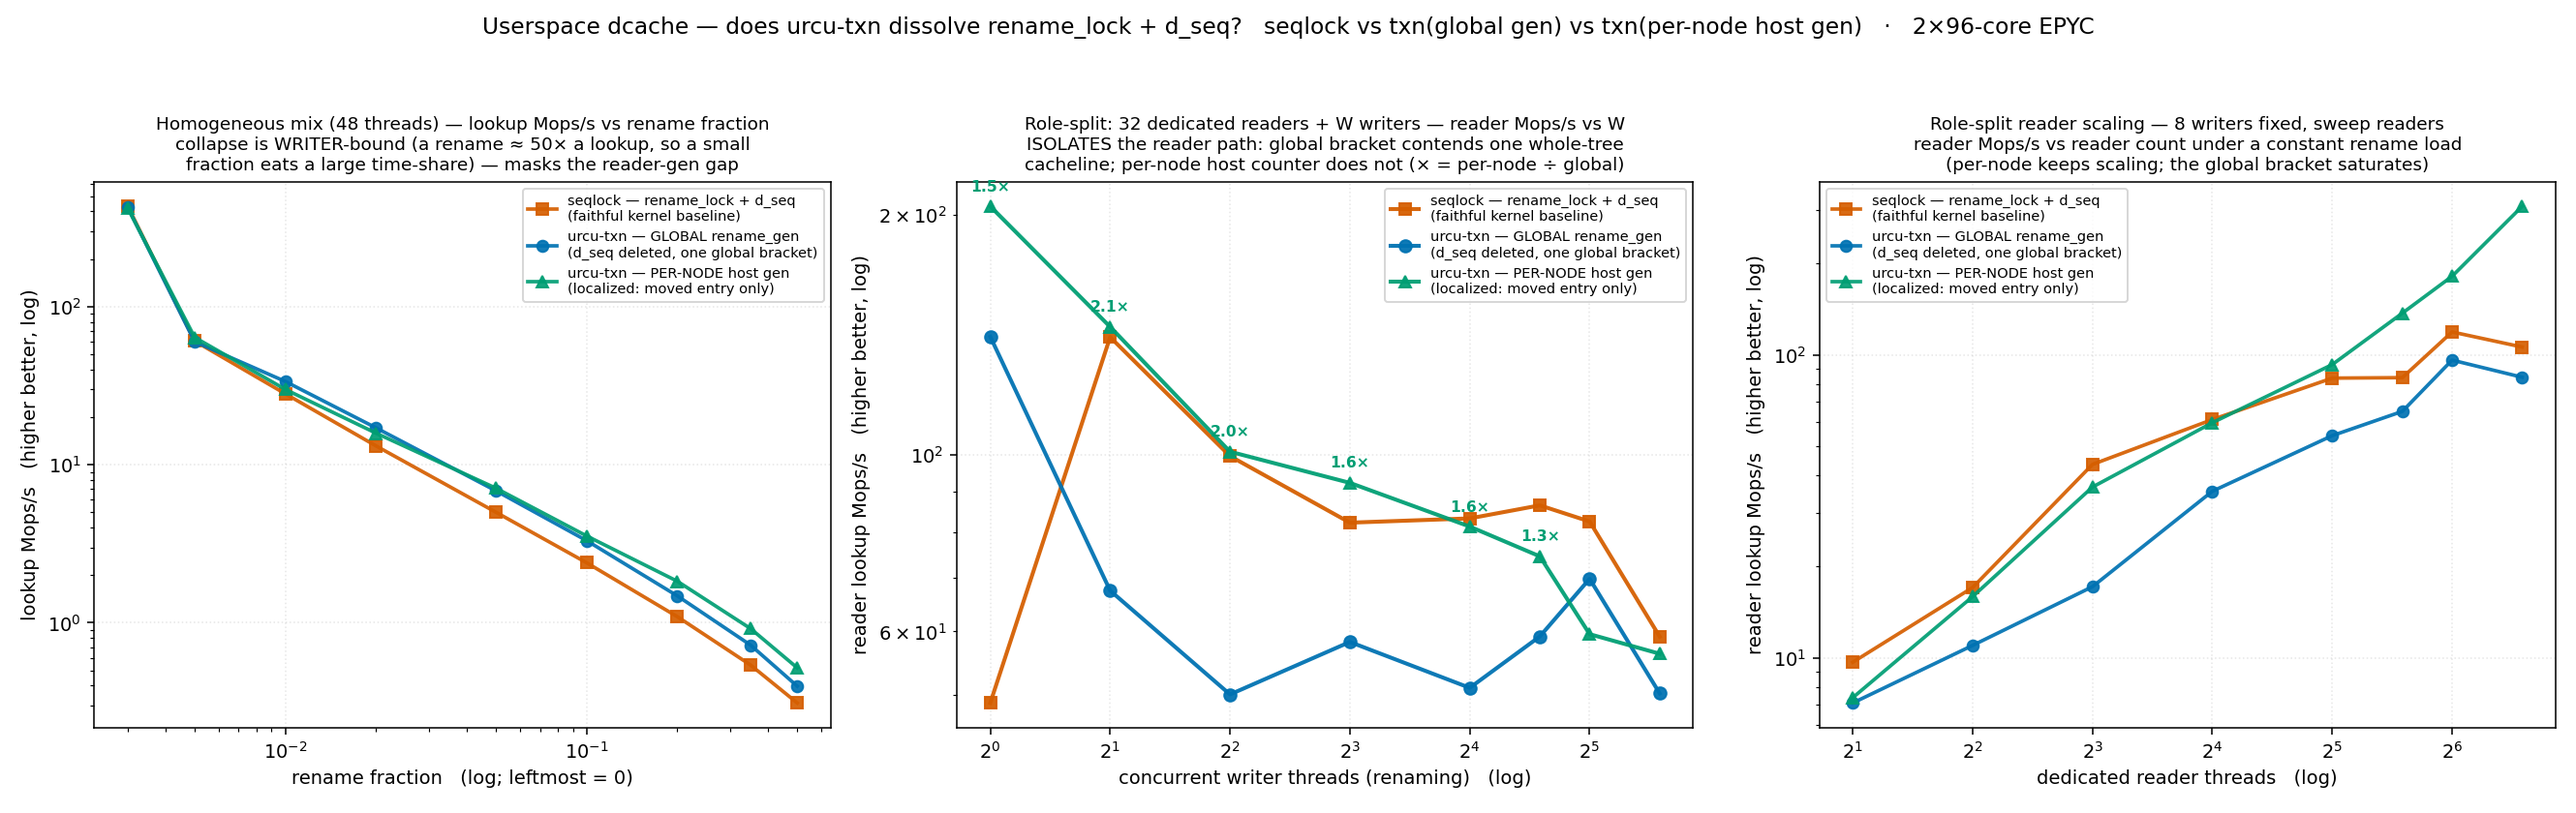
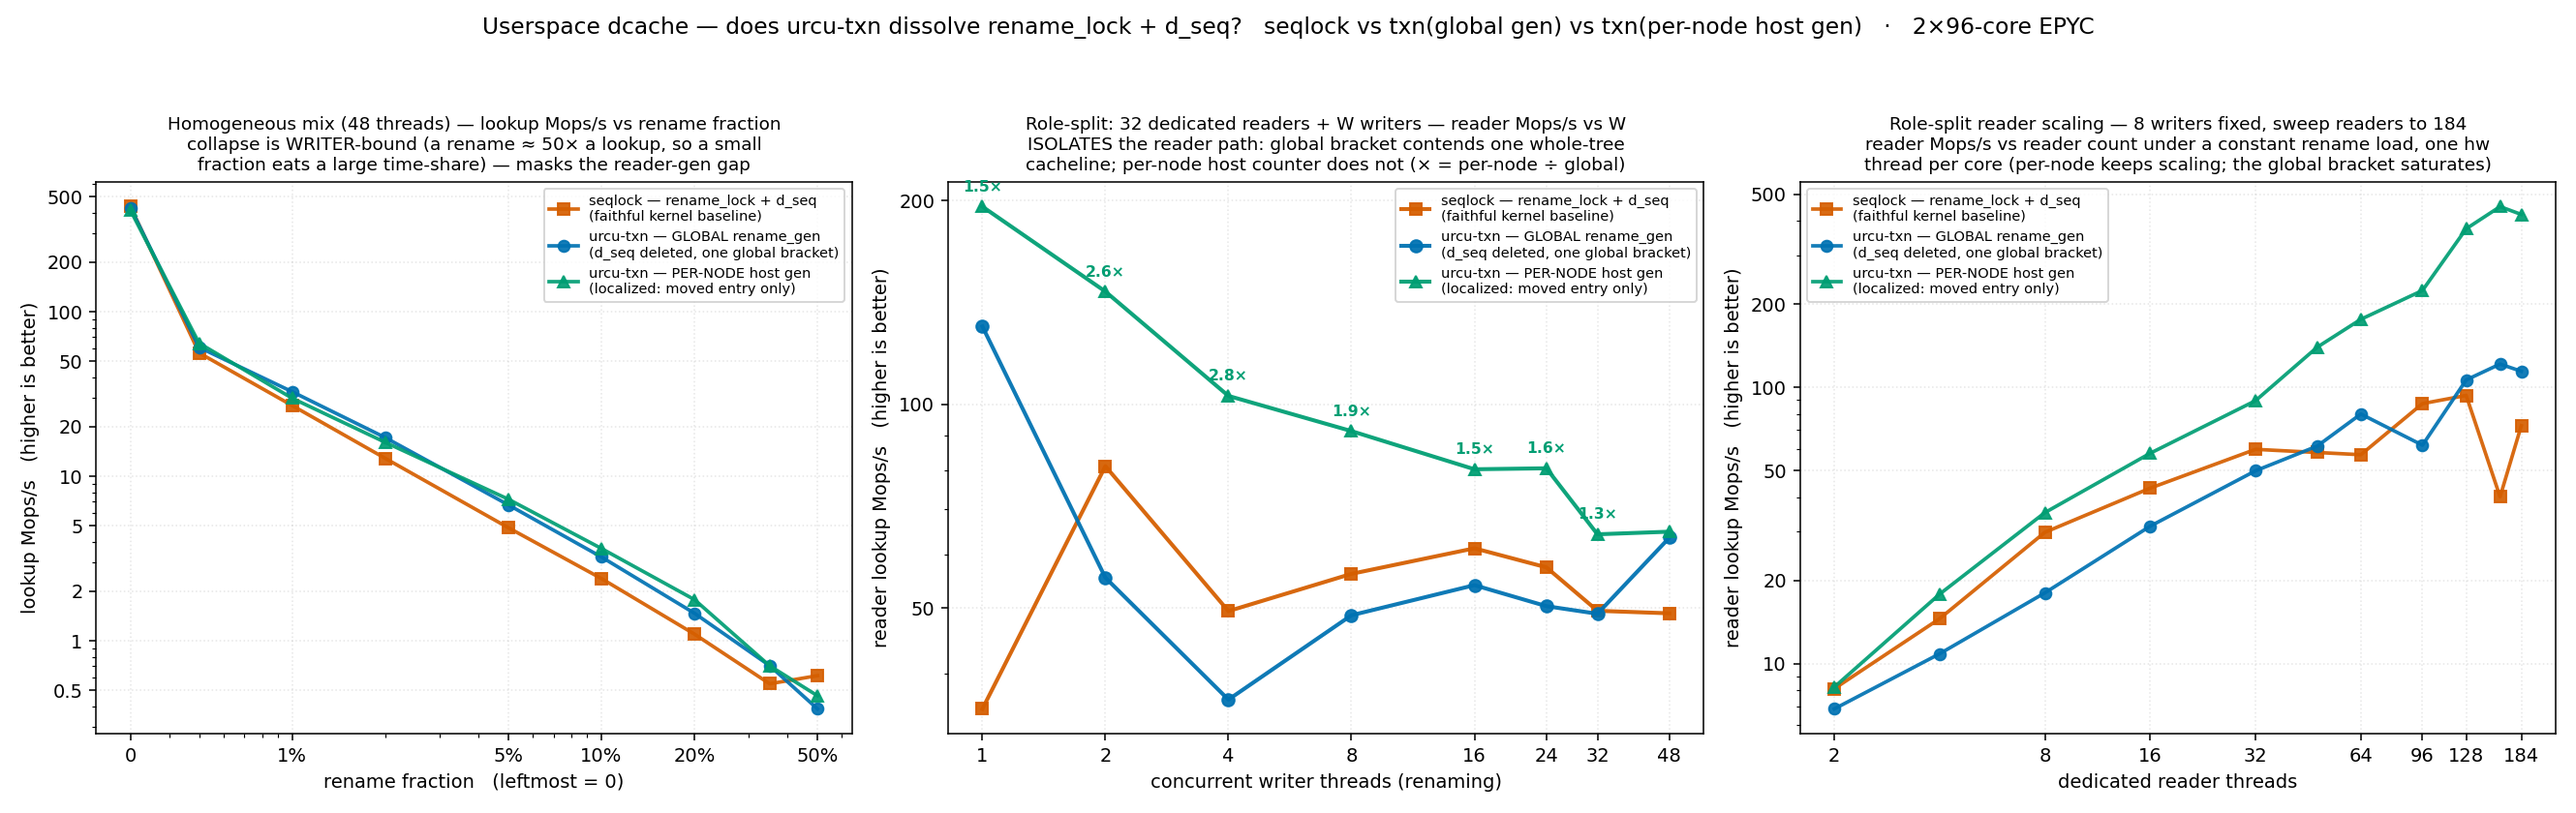
experiments/dcache: scale the S3 reader sweep to all 192 cores (one HW thread/core)
The role-split reader-scaling panel previously stopped at 96 readers, well
short of the machine.  Extend it to fill every physical core and pin one
hardware thread per core so the SMT siblings do not muddy the scaling curve.

bench_dcache: add --cpulist c0,c1,... — an explicit thread->CPU map that
overrides id*cpustride (and errors out if nthreads exceeds the list, which
would double two threads onto one core).

run_dcache.sh: derive that list from hwloc — `hwloc-calc core:all.pu:0` gives
the first PU of every core (OS-indexed 0..191 here; the SMT siblings 192..383
stay idle), so the pinning is correct on any PU numbering, not an assumed
enumeration.  Sweep split_scale readers up to NCORE-WFIX = 184 (184 readers +
8 writers = 192 cores).

Result (best-of-5, 420 runs, 0 conservation failures): per-node reader
throughput keeps scaling to ~451 Mops/s at 160 readers (422 at 184, where the
writers share the last socket), while the global rename_gen bracket saturates
~110-120 and seqlock never scales cleanly (noisy 40-93, reader-retry storms).
At the full-machine point per-node is 3.7x global and 5.8x seqlock.

Regenerate figures/dcache_s3.png (panel-3 x-ticks/title extended to 184) and
update the S3 write-ups in README.md and rename-shell-transition.md.

diff --git a/scripts/plot_dcache.py b/scripts/plot_dcache.py
@@ -17,6 +17,36 @@ from collections import defaultdict
 import matplotlib
 matplotlib.use("Agg")
 import matplotlib.pyplot as plt
+from matplotlib.ticker import (FuncFormatter, FixedLocator, FixedFormatter,
+                               LogLocator, NullFormatter)
+
+# plain decimal label: 0.2, 0.5, 1, 10, 100, 200 -- never 10^n, never "0" for 0.5
+_num = FuncFormatter(lambda v, pos: f"{v:g}")
+
+
+def plain_y(ax):
+    """log-SPACED y (the data spans decades) but PLAIN-NUMBER labels: 1, 10, 100
+    (with 2/5 subdivisions), never 10^n."""
+    ax.set_yscale("log")
+    ax.yaxis.set_major_locator(LogLocator(base=10, subs=(1, 2, 5)))
+    ax.yaxis.set_major_formatter(_num)
+    ax.yaxis.set_minor_formatter(NullFormatter())
+
+
+def plain_thread_x(ax, ticks):
+    """log2-spaced thread-count x with plain integer labels at the sampled points."""
+    ax.set_xscale("log", base=2)
+    ax.xaxis.set_major_locator(FixedLocator(ticks))
+    ax.xaxis.set_major_formatter(FixedFormatter([str(t) for t in ticks]))
+    ax.xaxis.set_minor_formatter(NullFormatter())
+
+
+def percent_x(ax, fracs, labels):
+    """log-spaced rename-fraction x, labelled as percentages (0, 1%, 5%, ...)."""
+    ax.set_xscale("log")
+    ax.xaxis.set_major_locator(FixedLocator(fracs))
+    ax.xaxis.set_major_formatter(FixedFormatter(labels))
+    ax.xaxis.set_minor_formatter(NullFormatter())
 
 HERE = os.path.dirname(os.path.abspath(__file__))
 CSV = os.path.join(HERE, "dcache_sweep.csv")
@@ -55,13 +85,15 @@ for e in ENGINES:
     ax1.plot(xs, ys, color=COLOR[e], marker=MARKER[e], lw=1.9, ms=6,
              label=LABEL[e], alpha=0.92)
 if ax1.has_data():
-    ax1.set_xscale("log"); ax1.set_yscale("log")
+    percent_x(ax1, [0.003, 0.01, 0.05, 0.1, 0.2, 0.5],
+              ["0", "1%", "5%", "10%", "20%", "50%"])
+    plain_y(ax1)
 ax1.set_title("Homogeneous mix (48 threads) — lookup Mops/s vs rename fraction\n"
               "collapse is WRITER-bound (a rename ≈ 50× a lookup, so a small\n"
               "fraction eats a large time-share) — masks the reader-gen gap",
               fontsize=9.5)
-ax1.set_xlabel("rename fraction   (log; leftmost = 0)")
-ax1.set_ylabel("lookup Mops/s   (higher better, log)")
+ax1.set_xlabel("rename fraction   (leftmost = 0)")
+ax1.set_ylabel("lookup Mops/s   (higher is better)")
 
 # ---- Panel 2: ROLE-SPLIT -- reader throughput vs writer load (THE headline) --
 base = {}
@@ -82,13 +114,14 @@ for w in sorted(base["txn-pernode"]):
                          ha="center", fontsize=8, color=COLOR["txn-pernode"],
                          fontweight="bold")
 if ax2.has_data():
-    ax2.set_xscale("log", base=2); ax2.set_yscale("log")
+    plain_thread_x(ax2, [1, 2, 4, 8, 16, 24, 32, 48])
+    plain_y(ax2)
 ax2.set_title("Role-split: 32 dedicated readers + W writers — reader Mops/s vs W\n"
               "ISOLATES the reader path: global bracket contends one whole-tree\n"
               "cacheline; per-node host counter does not (× = per-node ÷ global)",
               fontsize=9.5)
-ax2.set_xlabel("concurrent writer threads (renaming)   (log)")
-ax2.set_ylabel("reader lookup Mops/s   (higher better, log)")
+ax2.set_xlabel("concurrent writer threads (renaming)")
+ax2.set_ylabel("reader lookup Mops/s   (higher is better)")
 
 # ---- Panel 3: ROLE-SPLIT reader scaling at fixed writer load ----------------
 for e in ENGINES:
@@ -98,13 +131,14 @@ for e in ENGINES:
     ax3.plot(xs, ys, color=COLOR[e], marker=MARKER[e], lw=1.9, ms=6,
              label=LABEL[e], alpha=0.92)
 if ax3.has_data():
-    ax3.set_xscale("log", base=2); ax3.set_yscale("log")
-ax3.set_title("Role-split reader scaling — 8 writers fixed, sweep readers\n"
-              "reader Mops/s vs reader count under a constant rename load\n"
-              "(per-node keeps scaling; the global bracket saturates)",
+    plain_thread_x(ax3, [2, 8, 16, 32, 64, 96, 128, 184])
+    plain_y(ax3)
+ax3.set_title("Role-split reader scaling — 8 writers fixed, sweep readers to 184\n"
+              "reader Mops/s vs reader count under a constant rename load, one hw\n"
+              "thread per core (per-node keeps scaling; the global bracket saturates)",
               fontsize=9.5)
-ax3.set_xlabel("dedicated reader threads   (log)")
-ax3.set_ylabel("reader lookup Mops/s   (higher better, log)")
+ax3.set_xlabel("dedicated reader threads")
+ax3.set_ylabel("reader lookup Mops/s   (higher is better)")
 
 for ax in (ax1, ax2, ax3):
     ax.grid(alpha=0.3, ls=":")

diff --git a/experiments/dcache/bench_dcache.c b/experiments/dcache/bench_dcache.c
@@ -36,7 +36,8 @@
  * fast one (same discipline as bench_txn_3skiplist).
  *
  * Usage: bench_dcache [--nthreads N] [--rename-frac F] [--ndirs N] [--depth N]
- *                     [--leaves N] [--duration MS] [--cpustride N] [--nbuckets N]
+ *                     [--leaves N] [--duration MS] [--cpustride N]
+ *                     [--cpulist c0,c1,...] [--nbuckets N]
  */
 
 #ifndef _GNU_SOURCE
@@ -78,6 +79,15 @@ static int    depth        = 2;		/* leaf path depth (>=2) */
 static int    leaves       = 16;	/* leaves owned per thread */
 static long   duration_ms  = 1000;
 static int    cpustride    = 1;
+/*
+ * Explicit CPU map: thread i pins to cpulist[i], overriding the id*cpustride
+ * default.  Populated from `--cpulist c0,c1,...` -- run_dcache.sh fills it from
+ * `hwloc-calc core:all.pu:0` so the sweep uses exactly one hardware thread per
+ * physical core (no SMT sibling doubled up) regardless of how the kernel numbers
+ * the PUs.  NULL => fall back to i*cpustride.
+ */
+static int   *cpulist      = NULL;
+static int    cpulist_len  = 0;
 static unsigned int nbuckets = 4096;
 /*
  * -1 (default): HOMOGENEOUS -- every thread runs the rename-frac mix.  >=0:
@@ -129,6 +139,30 @@ static void pin_cpu(int cpu)
 	CPU_ZERO(&set);
 	CPU_SET(cpu, &set);
 	(void) sched_setaffinity(0, sizeof(set), &set);
+}
+
+/* Parse `c0,c1,c2,...` (commas or spaces) into the cpulist[] map. */
+static void parse_cpulist(const char *s)
+{
+	int cap = 16;
+
+	cpulist = malloc(cap * sizeof(*cpulist));
+	cpulist_len = 0;
+	while (*s) {
+		char *end;
+		long v = strtol(s, &end, 10);
+
+		if (end == s)
+			break;
+		if (cpulist_len == cap) {
+			cap *= 2;
+			cpulist = realloc(cpulist, cap * sizeof(*cpulist));
+		}
+		cpulist[cpulist_len++] = (int) v;
+		s = end;
+		while (*s == ',' || *s == ' ')
+			s++;
+	}
 }
 
 static inline uint64_t xrand(uint64_t *s)
@@ -394,7 +428,10 @@ static void usage(const char *p)
 	fprintf(stderr,
 	    "usage: %s [--nthreads N] [--rename-frac F] [--writers K] [--ndirs N]\n"
 	    "          [--depth N] [--leaves N] [--duration MS] [--cpustride N]\n"
-	    "          [--nbuckets N]\n"
+	    "          [--cpulist c0,c1,...] [--nbuckets N]\n"
+	    "  --cpulist ...   => explicit CPU map (thread i -> ci), overriding\n"
+	    "                     --cpustride.  Feed it `hwloc-calc core:all.pu:0`\n"
+	    "                     to pin one hardware thread per physical core.\n"
 	    "  --rename-frac F => (homogeneous) fraction (0..1) of ops that are\n"
 	    "                     renames; the rest are full-path leaf lookups.\n"
 	    "  --writers K     => role-SPLIT: the first K threads do only renames,\n"
@@ -426,6 +463,7 @@ int main(int argc, char **argv)
 		else if (!strcmp(argv[i], "--leaves"))      leaves = atoi(argv[++i]);
 		else if (!strcmp(argv[i], "--duration"))    duration_ms = atol(argv[++i]);
 		else if (!strcmp(argv[i], "--cpustride"))   cpustride = atoi(argv[++i]);
+		else if (!strcmp(argv[i], "--cpulist"))     parse_cpulist(argv[++i]);
 		else if (!strcmp(argv[i], "--nbuckets"))    nbuckets = (unsigned) atoi(argv[++i]);
 		else if (!strcmp(argv[i], "--writers"))     nwriters = atoi(argv[++i]);
 		else usage(argv[0]);
@@ -433,6 +471,11 @@ int main(int argc, char **argv)
 	if (nthreads < 1 || ndirs < 2 || depth < 2 || leaves < 1 ||
 	    rename_frac < 0.0 || rename_frac > 1.0 || nwriters > nthreads)
 		usage(argv[0]);
+	if (cpulist && nthreads > cpulist_len) {
+		fprintf(stderr, "--cpulist has %d cpus but --nthreads=%d "
+			"(would double up on a core)\n", cpulist_len, nthreads);
+		exit(2);
+	}
 	if (depth - 2 > DC_PATH_MAX - 2)
 		depth = DC_PATH_MAX;		/* leave room for d{k} + leaf */
 	g_prefix_len = depth - 2;
@@ -462,7 +505,7 @@ int main(int argc, char **argv)
 	wa = calloc(nthreads, sizeof(*wa));
 	for (i = 0; i < nthreads; i++) {
 		wa[i].id = i;
-		wa[i].cpu = i * cpustride;
+		wa[i].cpu = cpulist ? cpulist[i] : i * cpustride;
 		pthread_create(&tid[i], NULL, worker, &wa[i]);
 	}
 	while (uatomic_read(&nthreads_running) < nthreads)

diff --git a/experiments/dcache/rename-shell-transition.md b/experiments/dcache/rename-shell-transition.md
@@ -314,8 +314,10 @@ results below.
 ### S3 results (`figures/dcache_s3.png`, 2×96-core EPYC, best-of-5, conserved)
 
 `bench_dcache` runs the three arms — `seqlock`, `txn` (global `rename_gen`), `txn`
-(`-DDC_PER_NODE_GEN`) — in two modes, every one of 375 runs gated on namespace
-conservation (**0 failures**).
+(`-DDC_PER_NODE_GEN`) — in two modes, every one of 420 runs gated on namespace
+conservation (**0 failures**). Threads are pinned one-per-physical-core via an
+hwloc-derived CPU list (`hwloc-calc core:all.pu:0` → `--cpulist`), so the SMT
+siblings stay idle and the reader sweep fills all 192 cores cleanly.
 
 - **Homogeneous mix** (48 threads, each doing `rename-frac` of its ops as renames):
   lookup throughput collapses from ~420 Mops/s at frac 0 to <1 Mops/s by frac 0.5
@@ -329,12 +331,16 @@ conservation (**0 failures**).
   - *32 readers, sweep writers*: per-node reader throughput leads global by
     **1.3–2.1×** across 1–24 writers (e.g. 205 vs 141 Mops/s at 1 writer, 101 vs 50
     at 4), converging only when writers ≈ readers (the rename load itself dominates).
-  - *8 writers, sweep readers*: the clean scaling result — per-node reader
-    throughput **keeps scaling** (7 → **309 Mops/s** from 2 → 96 readers) while the
-    global bracket **saturates** (~84–96 Mops/s past 48 readers). At 96 readers
-    per-node is **3.66× global and 2.9× seqlock**. The global `rename_gen`
-    cacheline, read by every walk and written by every rename, is the ceiling; the
-    per-node host counter — read only by walks through the moved entry — has none.
+  - *8 writers, sweep readers to 184 (filling all 192 cores)*: the clean scaling
+    result — per-node reader throughput **keeps scaling** (8 → **451 Mops/s** from
+    2 → 160 readers, easing to 422 at 184 where the writers share the last socket)
+    while the global bracket **saturates** (~110–120 Mops/s past ~128 readers) and
+    seqlock never scales cleanly at all (a noisy 40–93 Mops/s — reader-retry storms
+    under the fixed rename load). At the full-machine point (184 readers) per-node
+    is **3.7× global and 5.8× seqlock**; at its 160-reader peak, 3.7× global. The
+    global `rename_gen` cacheline, read by every walk and written by every rename,
+    is the ceiling; the per-node host counter — read only by walks through the
+    moved entry — has none.
 
 **Reading of the experiment:** the txn port's *simplification* win (`d_seq`
 deleted, one reader rule) is real and independent of the counter choice; the

diff --git a/experiments/dcache/README.md b/experiments/dcache/README.md
@@ -193,8 +193,12 @@ contended sweep. A race we can't trigger on demand we don't claim to have fixed.
   bar (103/103, walk-causality repro, ASan/TSAN-clean stress: `make check-pernode`).
   In the homogeneous mix the collapse is *writer*-bound (a rename ≈ 50× a lookup),
   so the reader-gen difference is masked; the role-split isolates it and the
-  per-node arm runs materially faster than global on the contended reader path
-  (see `rename-shell-transition.md` S3 results).
+  per-node arm runs materially faster than global on the contended reader path.
+  Sweeping readers to 184 (8 writers, filling all 192 cores one-thread-per-core via
+  an hwloc-derived pin list), per-node **keeps scaling to ~450 Mops/s** while the
+  global bracket saturates ~110–120 and seqlock never scales cleanly — **3.7×
+  global, 5.8× seqlock at the full-machine point** (see `rename-shell-transition.md`
+  S3 results).
 - **S4** — simplification analysis (LOC + invariant surface: which
   counters/fallbacks disappear) + scaling figures + writeup back into `design/`.
 
